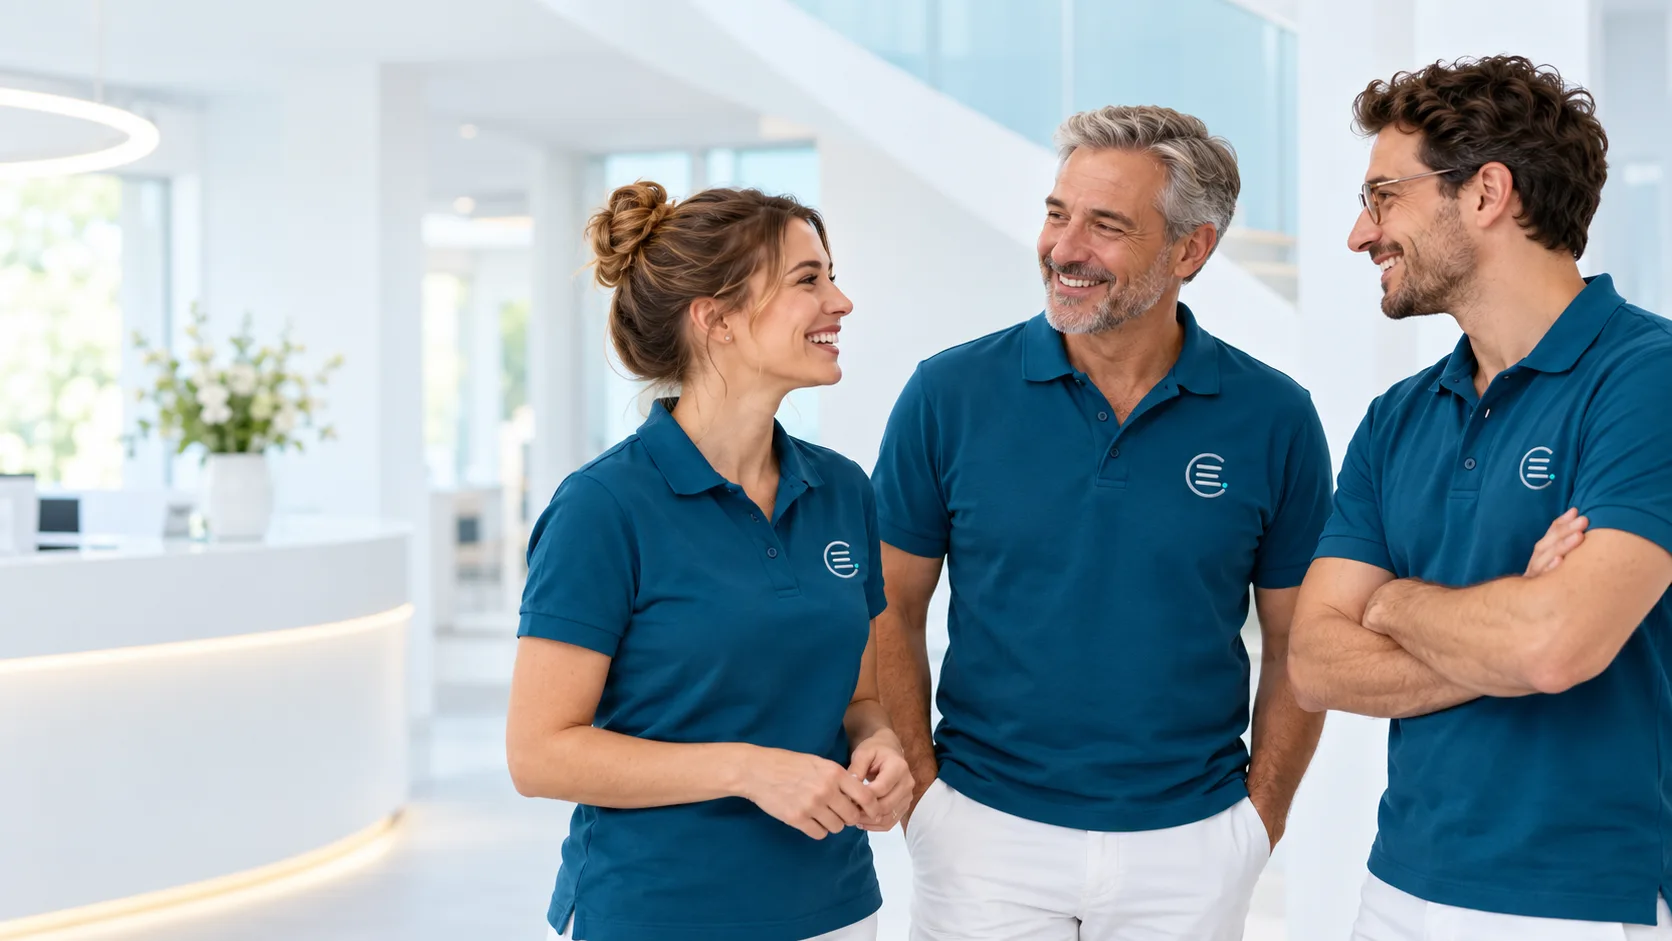
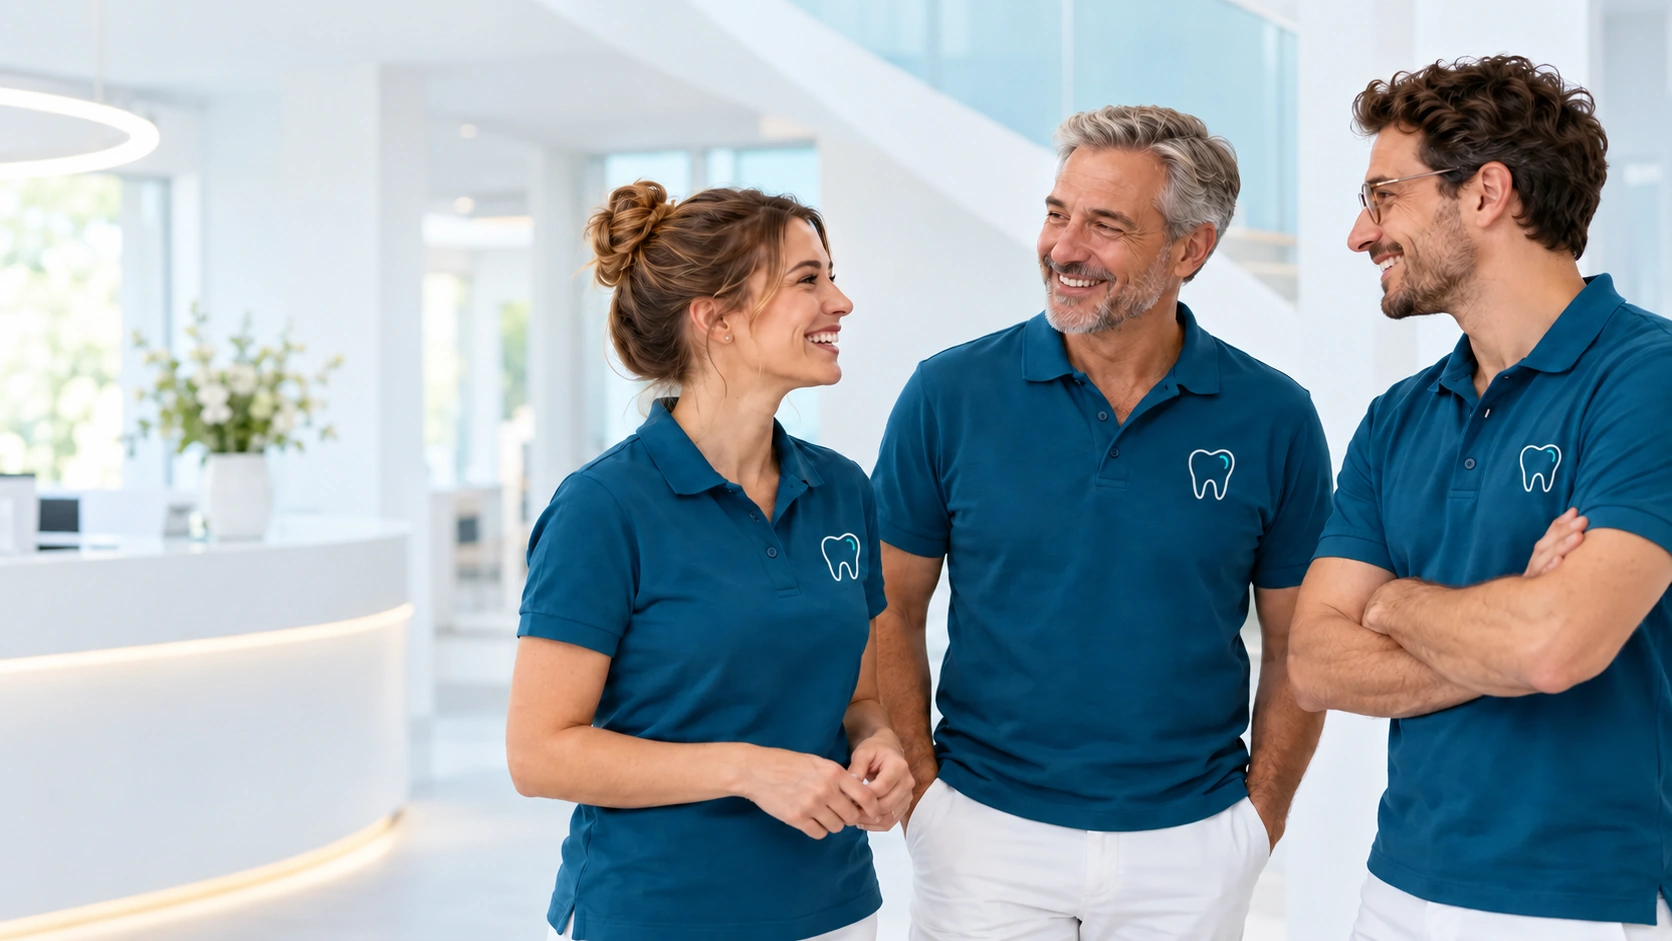
New brand assets, full Meitingen address, hours back in hero card
- Replace logo, monogram/favicon and four photos with the updated brand
  assets (tooth icon); inline logo and background motif use the new icon
- Address: Hauptstraße 56, 86405 Meitingen
- Hero image card shows the opening hours again

Claude-Session: https://claude.ai/code/session_01MKZT1uXxjNTwAswWCcSEGo

diff --git a/src/components/sections/Hero.tsx b/src/components/sections/Hero.tsx
@@ -1,7 +1,7 @@
 import Image from "next/image";
 import { hero, images, practice } from "@/content/site";
 import { AppointmentLink, PhoneLink } from "../Cta";
-import { CheckIcon, PinIcon } from "../Icons";
+import { CheckIcon, ClockIcon } from "../Icons";
 import { Rich } from "../Rich";
 
 export function Hero() {
@@ -48,16 +48,18 @@ export function Hero() {
               className="aspect-[4/3] h-auto w-full object-cover object-[40%_center] lg:aspect-square lg:object-[45%_center]"
             />
           </div>
-          <div className="absolute -bottom-6 left-4 flex max-w-[18rem] items-center gap-3 rounded-2xl border border-white/70 bg-white/95 p-4 shadow-soft backdrop-blur sm:left-6 sm:p-5 lg:-left-8">
-            <span className="inline-flex h-10 w-10 shrink-0 items-center justify-center rounded-full bg-teal-500/15 text-teal-700">
-              <PinIcon className="h-5 w-5" />
-            </span>
-            <p className="text-sm leading-snug">
-              <span className="block font-extrabold text-navy-900">Ihre Praxis in {practice.address.city}</span>
-              <span className="text-muted">
-                {practice.address.street}, {practice.address.postalCode} {practice.address.city}
-              </span>
+          <div className="absolute -bottom-6 left-4 max-w-[17rem] rounded-2xl border border-white/70 bg-white/95 p-4 shadow-soft backdrop-blur sm:left-6 sm:p-5 lg:-left-8">
+            <p className="flex items-center gap-2 text-[0.72rem] font-bold tracking-[0.14em] text-teal-700 uppercase">
+              <ClockIcon className="h-4 w-4" /> Öffnungszeiten
             </p>
+            <dl className="mt-2.5 grid grid-cols-[auto_1fr] gap-x-5 gap-y-1 text-sm">
+              {practice.openingHours.map((row) => (
+                <div key={row.label} className="contents">
+                  <dt className="text-muted">{row.short}</dt>
+                  <dd className="font-semibold text-navy-900">{row.hours}</dd>
+                </div>
+              ))}
+            </dl>
           </div>
         </div>
       </div>

diff --git a/src/components/Logo.tsx b/src/components/Logo.tsx
@@ -1,5 +1,5 @@
 /**
- * Inline version of the supplied elara-logo.svg (same geometry), so the
+ * Inline version of the supplied elara-logo.svg (tooth icon, updated brand assets) (same geometry), so the
  * wordmark uses the self-hosted Manrope font and can switch to a light variant.
  */
 export function Logo({
@@ -19,20 +19,14 @@ export function Logo({
     >
       <g transform="translate(6 6)">
         <path
-          d="M84 27C77 20 69 17 59 17 35 17 18 35 18 60s17 43 41 43c13 0 23-5 31-15"
+          d="M60 25C49 25 42 16 31 19C16 23 17 40 22 53C26 63 29 72 31 85C33 99 39 104 44 94L53 74C56 68 64 68 67 74L76 94C81 104 87 99 89 85C91 72 94 63 98 53C103 40 104 23 89 19C78 16 71 25 60 25Z"
           fill="none"
           stroke={main}
-          strokeWidth="9"
+          strokeWidth="7"
           strokeLinecap="round"
+          strokeLinejoin="round"
         />
-        <path
-          d="M39 44h43M39 60h33M39 76h43"
-          fill="none"
-          stroke={main}
-          strokeWidth="8"
-          strokeLinecap="round"
-        />
-        <circle cx="93" cy="76" r="5" fill="#20a8b2" />
+        <path d="M78 32C85 30 91 34 91 42" fill="none" stroke="#20a8b2" strokeWidth="6" strokeLinecap="round" />
       </g>
       <text
         x="140"

diff --git a/src/components/sections/Reasons.tsx b/src/components/sections/Reasons.tsx
@@ -8,25 +8,19 @@ export function Reasons() {
       aria-labelledby="gruende-title"
       className="relative overflow-hidden bg-navy-900 py-20 text-white sm:py-24 lg:py-28"
     >
-      {/* the three bars of the logo, as a quiet background motif */}
+      {/* the logo's tooth icon, as a quiet background motif */}
       <svg
         aria-hidden="true"
         viewBox="0 0 120 120"
         className="pointer-events-none absolute -right-24 -bottom-28 h-[30rem] w-[30rem] text-white/[0.04]"
       >
         <path
-          d="M84 27C77 20 69 17 59 17 35 17 18 35 18 60s17 43 41 43c13 0 23-5 31-15"
+          d="M60 25C49 25 42 16 31 19C16 23 17 40 22 53C26 63 29 72 31 85C33 99 39 104 44 94L53 74C56 68 64 68 67 74L76 94C81 104 87 99 89 85C91 72 94 63 98 53C103 40 104 23 89 19C78 16 71 25 60 25Z"
           fill="none"
           stroke="currentColor"
-          strokeWidth="9"
+          strokeWidth="7"
           strokeLinecap="round"
-        />
-        <path
-          d="M39 44h43M39 60h33M39 76h43"
-          fill="none"
-          stroke="currentColor"
-          strokeWidth="8"
-          strokeLinecap="round"
+          strokeLinejoin="round"
         />
       </svg>
 

diff --git a/src/content/site.ts b/src/content/site.ts
@@ -21,10 +21,9 @@ export const withBase = (path: string) => `${basePath}${path}`;
 export const practice = {
   name: "Elara Zahnmedizin",
   shortName: "Elara",
-  // Supplied by the client. City changed to Meitingen (PLZ 86405) on request –
-  // street name still to be confirmed for the Meitingen location.
+  // Supplied by the client.
   address: {
-    street: "Willy-Brandt-Platz 1",
+    street: "Hauptstraße 56",
     postalCode: "86405",
     city: "Meitingen",
     country: "DE",
@@ -332,7 +331,7 @@ export const bookingProcess = {
     {
       image: "xray",
       title: "Die Praxis besuchen",
-      text: "Am vereinbarten Tag empfangen wir Sie in unseren hellen Räumen am Willy-Brandt-Platz 1. Fragen vorab klären wir gern telefonisch.",
+      text: "Am vereinbarten Tag empfangen wir Sie in unseren hellen Räumen in der Hauptstraße 56. Fragen vorab klären wir gern telefonisch.",
     },
   ] as { image: keyof typeof images; title: string; text: string }[],
 };

diff --git a/HANDOVER.md b/HANDOVER.md
@@ -17,11 +17,11 @@ The page sections, in order:
 - Patient testimonials (see section 3).
 - Team.
 - FAQ accordion.
-- Contact section with phone, e-mail, opening hours and the enquiry form. The address is in the hero card and footer, and "Route planen" is in the footer.
+- Contact section with phone, e-mail, opening hours and the enquiry form. Opening hours also appear in the hero image card. The address and "Route planen" are in the footer.
 - Footer.
 - On mobile, a bottom action bar with "Termin vereinbaren" and "Anrufen". It hides while the contact form is on screen so it never covers form fields.
 
-**Design.** The palette comes from the logo: navy `#103f72` and teal `#20a8b2`, set on warm ivory and sand. All text uses Manrope, the logo's font, self-hosted through `next/font`. Headings are extra-bold, with a hand-drawn teal underline on key words. To underline a word, wrap it in `*asterisks*` in `site.ts`. Eyebrow labels are pill-shaped. All 5 supplied photos are used and cropped per section with their aspect ratios kept. The team group photo appears twice (scroll story and Team section) because there are only 5 photos.
+**Design.** The palette comes from the logo: navy `#103f72` and teal `#20a8b2`, set on warm ivory and sand. All text uses Manrope, the logo's font, self-hosted through `next/font`. Headings are extra-bold, with a hand-drawn teal underline on key words. To underline a word, wrap it in `*asterisks*` in `site.ts`. Eyebrow labels are pill-shaped. The logo and four photos come from the updated brand-asset set (tooth icon). The X-ray room photo is from the first set; it shows no branding. All 5 photos are used and cropped per section with their aspect ratios kept. The team group photo appears twice (scroll story and Team section) because there are only 5 photos.
 
 **Enquiry form** (`/api/anfrage`):
 
@@ -84,7 +84,7 @@ Other wording to confirm:
 
 ## 3. Missing client information or integrations
 
-- **Contact details:** updated by the client: phone +49 152 342 736 71, e-mail info@landsberger-medienagentur.de, opening hours Mo–Fr 9–17, Sa 9–12, Sunday closed. The location changed to Meitingen, so the postcode is now 86405 (Meitingen's postcode). **The street "Willy-Brandt-Platz 1" was carried over from the Augsburg address. Please confirm the correct Meitingen street address**, because it drives the directions link and structured data.
+- **Contact details:** supplied by the client: Hauptstraße 56, 86405 Meitingen · phone +49 152 342 736 71 · info@landsberger-medienagentur.de · Mo–Fr 9–17, Sa 9–12, Sunday closed.
 - **Form delivery:** no endpoint or credentials were supplied. Set either the `RESEND_*` variables or `CONTACT_WEBHOOK_URL`.
 - **Impressum and Datenschutz:** no approved text was supplied. `/impressum` and `/datenschutz` currently show a clearly marked placeholder and are set to `noindex`. The privacy text in the form and in the consent banner also needs legal review against the final setup.
 - **Team:** no names, titles or biographies were supplied. The Team section shows the group photo with generic text only. To add people, fill in `team.members` in `site.ts`.
